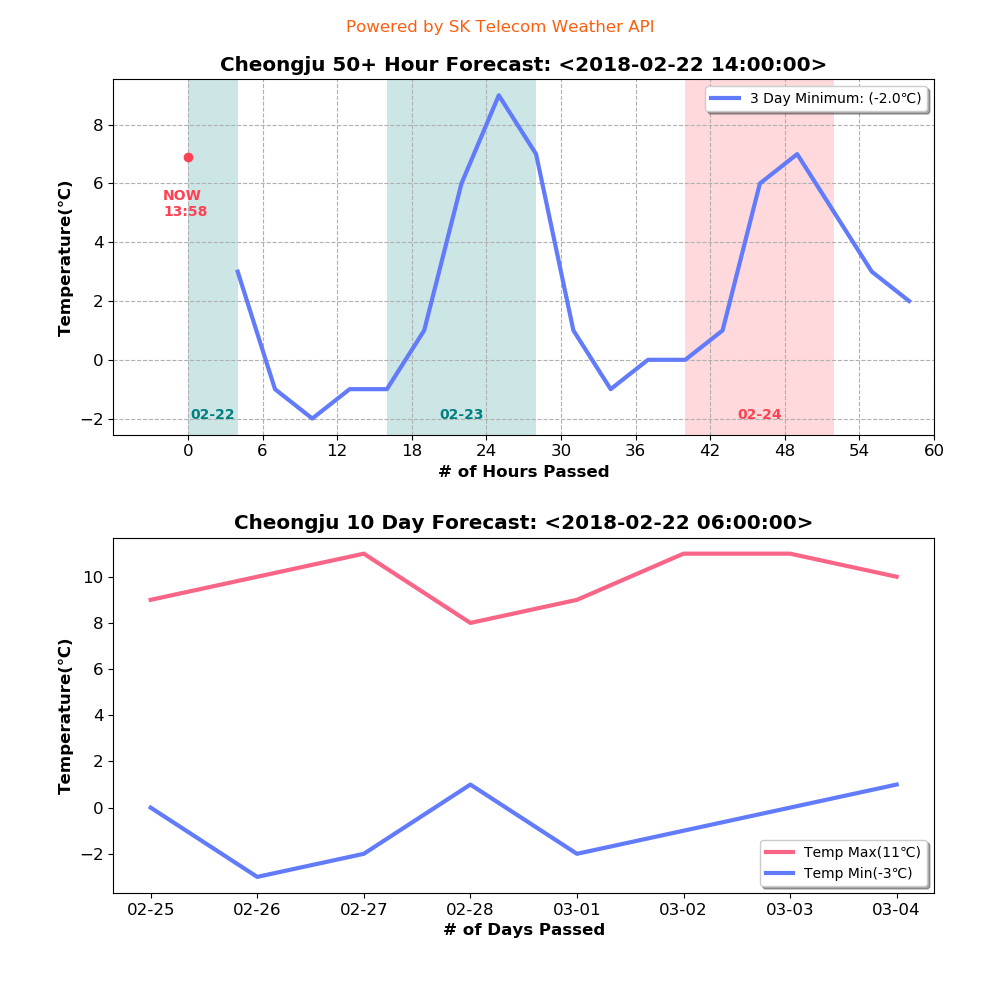
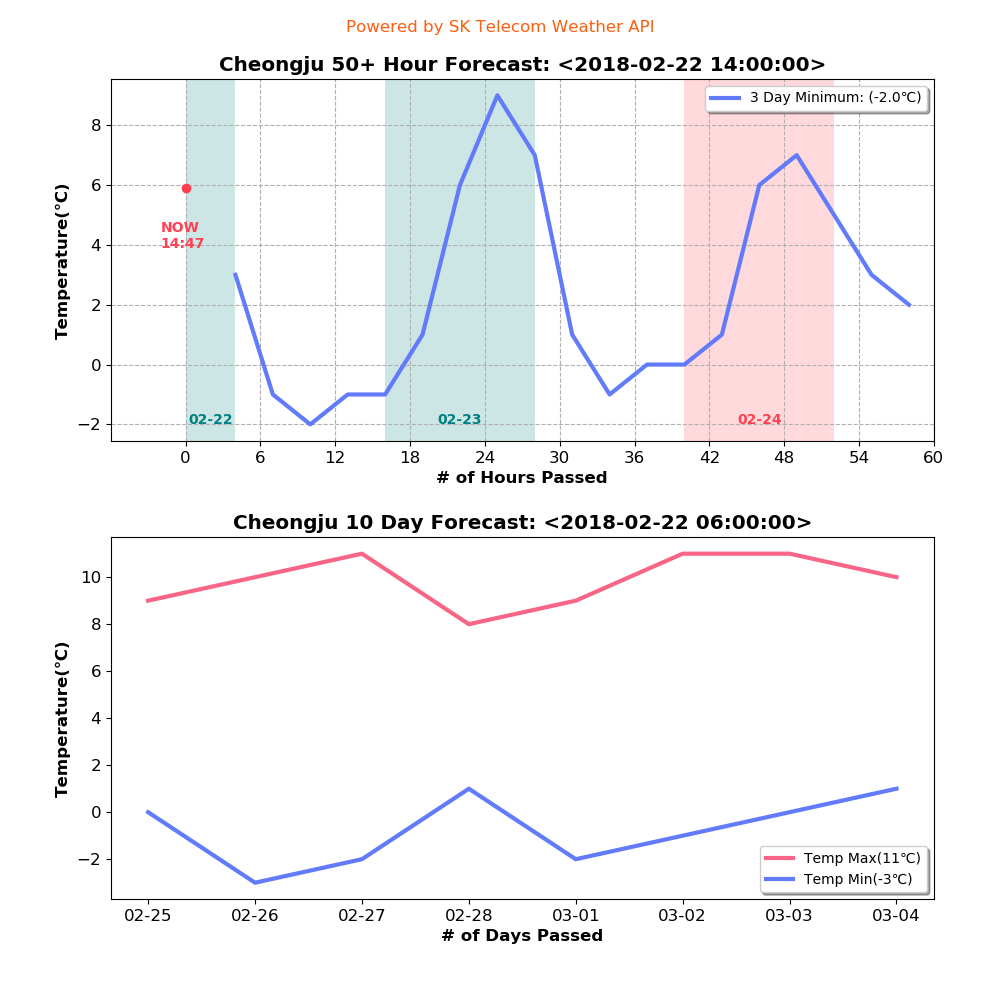
20180222/ 15:30

diff --git a/CHJ_Forecast.py b/CHJ_Forecast.py
@@ -147,7 +147,7 @@ plt.figure(figsize=(10,10))
 
 # First Graph
 plt.subplot(211)
-plt.title('Cheongju 50+ Hour Forecast: <{0}>'.format(time), fontweight='bold', fontsize='x-large')
+plt.title('Cheongju 3 Day Forecast: <{0}>'.format(time), fontweight='bold', fontsize='x-large')
 lowest = min(item3)
 plt.plot(ind3, item3, "#617bfb", label='3 Day Minimum: ({0}\u2103)'.format(lowest), linewidth=3)
 plt.legend(shadow=True)
